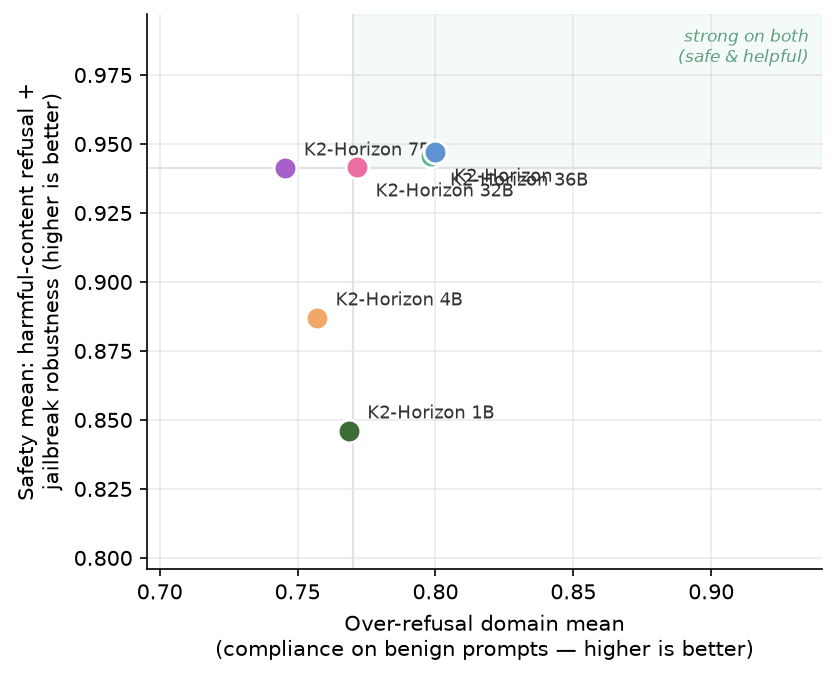
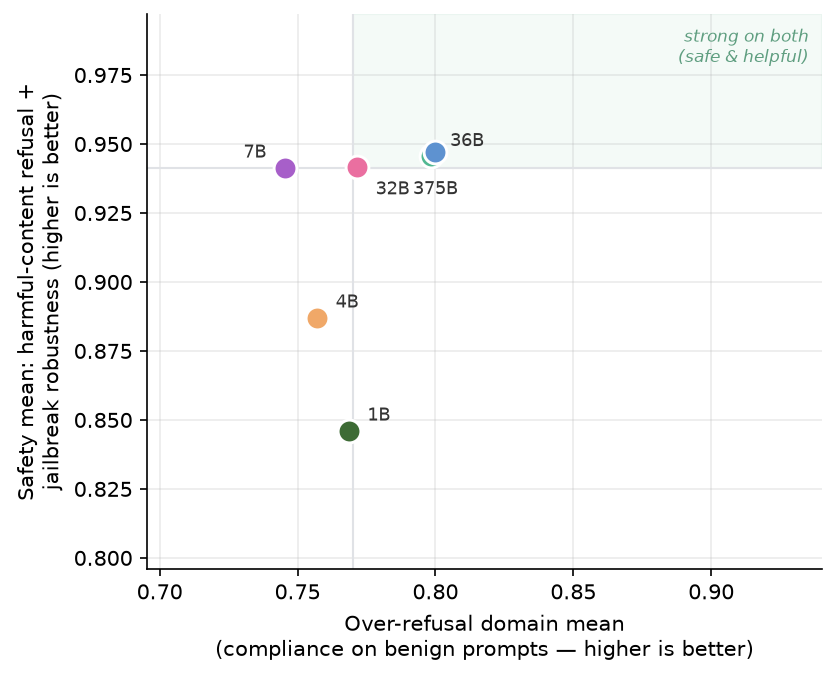
family_report: tradeoff chart labels — bare sizes instead of full model names, multi-slot dodge avoiding labels and neighboring points (375B/36B cluster was overlapping)

diff --git a/family_report/generate_family.py b/family_report/generate_family.py
@@ -394,18 +394,31 @@ def tradeoff(fd: FamilyData):
     ax.annotate("strong on both\n(safe & helpful)", (x1, y1),
                 textcoords="offset points", xytext=(-6, -6), ha="right", va="top",
                 fontsize=8, color="#5f9e80", style="italic")
-    # reversed draw order: the anchor's point stays on top of near-ties
-    placed = []  # label anchors in normalized axis coords, for overlap dodging
-    for e, x, y in reversed(list(zip(models, xs, ys))):
+    # reversed draw order: the anchor's point stays on top of near-ties.
+    # Labels are the bare sizes (the caption names the family) so the tight
+    # top-tier cluster stays legible; each label tries several slots and takes
+    # the first that collides with neither a placed label nor another point.
+    npts = [((px - x0) / (x1 - x0), (py - y0) / (y1 - y0))
+            for px, py in zip(xs, ys)]
+    placed = []  # approximate label centers in normalized axis coords
+    slots = [((9, 5), "left"), ((9, -13), "left"), ((-9, 5), "right"),
+             ((-9, -13), "right"), ((0, 12), "center"), ((0, -20), "center")]
+    for idx in reversed(range(len(models))):
+        e, x, y = models[idx], xs[idx], ys[idx]
         ax.scatter([x], [y], s=120, color=e.color, zorder=3,
                    edgecolor="white", linewidth=1.4)
-        nx, ny = (x - x0) / (x1 - x0), (y - y0) / (y1 - y0)
-        off = (9, 6)
-        if any(abs(nx - px) < 0.18 and abs(ny - py) < 0.06 for px, py in placed):
-            off = (9, -14)  # near-tie with an already-placed label: drop below
-        ax.annotate(e.label, (x, y), textcoords="offset points",
-                    xytext=off, fontsize=8.5, color=INK)
-        placed.append((nx, ny))
+        nx, ny = npts[idx]
+        lab = f"{e.size_b:g}B" if e.size_b else e.label
+        for (dxp, dyp), ha in slots:
+            lx = nx + dxp / 400 + {"left": 0.045, "right": -0.045, "center": 0}[ha]
+            ly = ny + dyp / 340
+            if (all(abs(lx - qx) > 0.10 or abs(ly - qy) > 0.05 for qx, qy in placed)
+                    and all(j == idx or abs(lx - px) > 0.05 or abs(ly - py) > 0.045
+                            for j, (px, py) in enumerate(npts))):
+                break
+        ax.annotate(lab, (x, y), textcoords="offset points",
+                    xytext=(dxp, dyp), ha=ha, fontsize=8.5, color=INK)
+        placed.append((lx, ly))
     ax.set_xlim(x0, x1)
     ax.set_ylim(y0, y1)
     ax.set_xlabel("Over-refusal domain mean\n(compliance on benign prompts — higher is better)")
